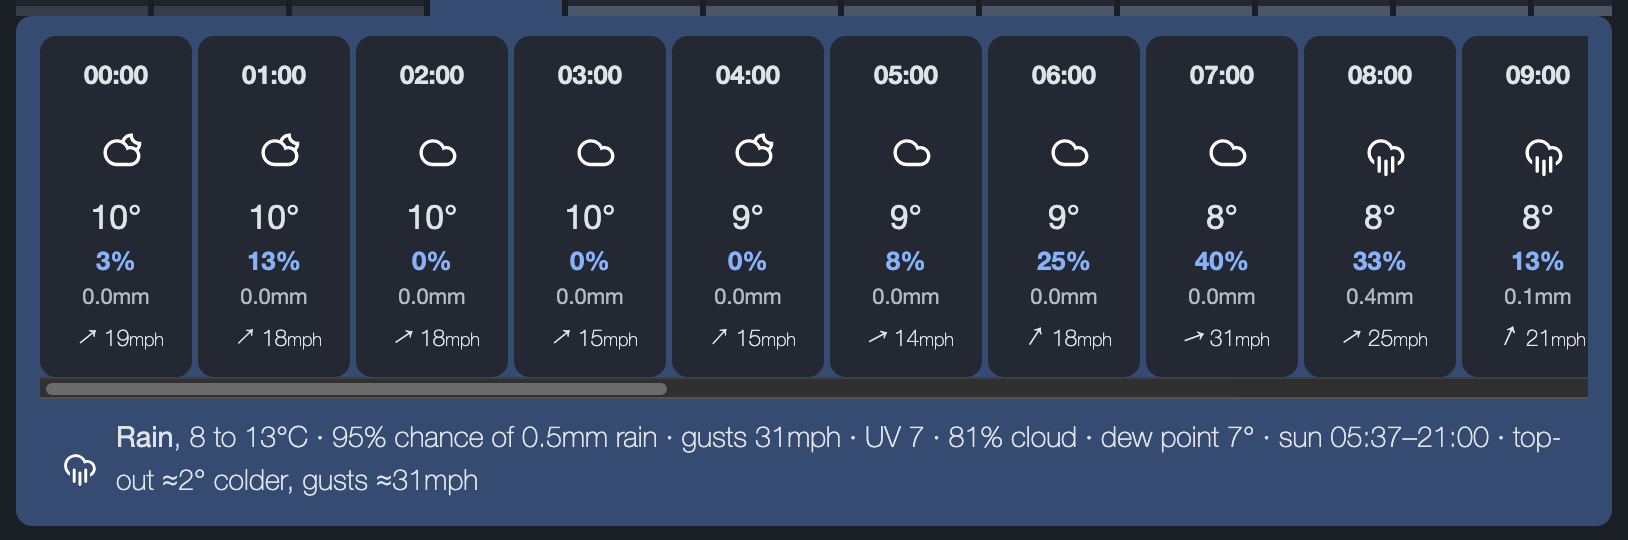
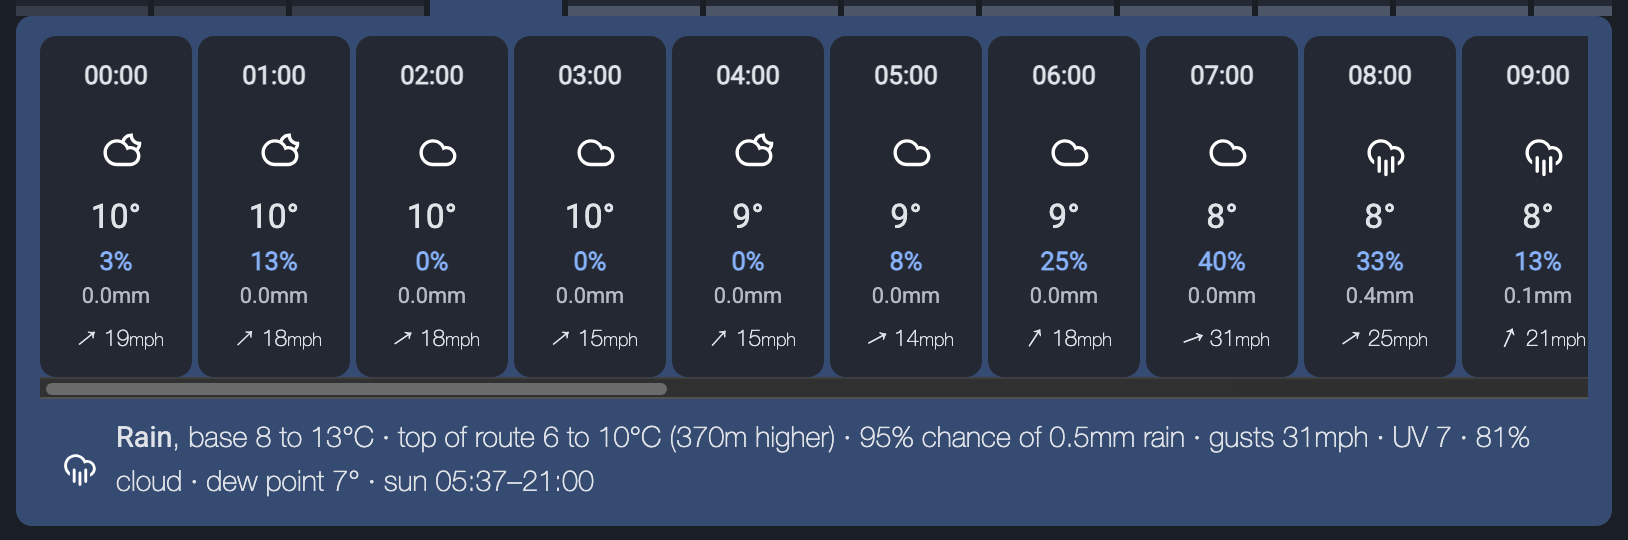
Top-out shows both numbers with a plain explanation
Instead of a cryptic delta phrase, the summary now reads
'base 8 to 13C - top of route 6 to 10C (370m higher)': real model
numbers for qualifying routes, lapse-estimated ones labelled
'(est., Nm higher)' for medium routes, single figure when the route
is too short to matter. Top gust only appears when it differs enough
to change a decision.

diff --git a/website/js/modules/getWeather.js b/website/js/modules/getWeather.js
@@ -143,21 +143,27 @@ function renderDayPanel(climbWeather, dayKey, timeZone, hoursByDate) {
         ? ` &middot; sun ${hourFormatter.format(new Date(day.sunriseTime * 1000))}&ndash;${hourFormatter.format(new Date(day.sunsetTime * 1000))}` : '';
     const lowTide = day.lowTides && day.lowTides.length
         ? ` &middot; low tide ${day.lowTides.map(low => hourFormatter.format(new Date(low.time * 1000))).join(' &amp; ')}` : '';
-    // long routes climb into different weather: model-driven top-out numbers
-    // when the feed carries them, a lapse-rate estimate (~0.65C/100m) otherwise;
-    // hidden when the route is too short for the spread to round to a degree
-    let topOut = '';
+    // Long routes climb into different weather, so show BOTH figures with a
+    // plain explanation: the base numbers and the top-of-route numbers
+    // (model-driven when the feed carries topOut, lapse-rate estimate
+    // otherwise; single figure when the route is too short to matter).
+    const baseGustMph = Math.round(day.windGust * MS_TO_MPH);
+    let tempPart = `${Math.round(day.temperatureMin)} to ${Math.round(day.temperatureHigh)}&#176;C`;
+    let gustPart = `gusts ${baseGustMph}mph`;
+    const routeLength = climbWeather.routeLength;
     if (day.topOut) {
-        const colder = Math.round(day.temperatureHigh - day.topOut.temperatureHigh);
-        if (colder >= 1) topOut = ` &middot; top-out &#8776;${colder}&#176; colder, gusts &#8776;${Math.round(day.topOut.windGust * MS_TO_MPH)}mph`;
-    } else if (climbWeather.routeLength) {
-        const colder = Math.round(climbWeather.routeLength * 0.0065);
-        if (colder >= 1) topOut = ` &middot; top-out &#8776;${colder}&#176; colder (est.)`;
+        tempPart = `base ${tempPart} &middot; top of route ${Math.round(day.topOut.temperatureMin)} to ${Math.round(day.topOut.temperatureHigh)}&#176;C (${routeLength}m higher)`;
+        const topGustMph = Math.round(day.topOut.windGust * MS_TO_MPH);
+        // only mention the top gust when it differs enough to change a decision
+        if (topGustMph - baseGustMph >= 3) gustPart = `gusts ${baseGustMph}mph (${topGustMph} at the top)`;
+    } else if (routeLength && Math.round(routeLength * 0.0065) >= 1) {
+        const drop = routeLength * 0.0065;
+        tempPart = `base ${tempPart} &middot; top of route &#8776;${Math.round(day.temperatureMin - drop)} to ${Math.round(day.temperatureHigh - drop)}&#176;C (est., ${routeLength}m higher)`;
     }
     const summary = `<p class="wx-day-summary"><span class="weather ${day.icon}"></span>
-        <span><strong>${day.icon.replace(/-/g, ' ')}</strong>, ${Math.round(day.temperatureMin)} to ${Math.round(day.temperatureHigh)}&#176;C
-        &middot; ${rainSummary} &middot; gusts ${Math.round(day.windGust * MS_TO_MPH)}mph
-        &middot; UV ${Math.round(day.uvIndex)} &middot; ${Math.round(day.cloudCover)}% cloud${dewPoint}${sun}${lowTide}${topOut}</span></p>`;
+        <span><strong>${day.icon.replace(/-/g, ' ')}</strong>, ${tempPart}
+        &middot; ${rainSummary} &middot; ${gustPart}
+        &middot; UV ${Math.round(day.uvIndex)} &middot; ${Math.round(day.cloudCover)}% cloud${dewPoint}${sun}${lowTide}</span></p>`;
 
     const hours = hoursByDate[localDateKey(day.time, timeZone)] || [];
     // no heading: the day and hour cells share one visual language, so the

diff --git a/cypress/e2e/weather.cy.js b/cypress/e2e/weather.cy.js
@@ -181,9 +181,11 @@ describe('Weather forecast strip', function () {
                 onBeforeLoad(win) { win.localStorage.setItem('climb42', JSON.stringify(climbFile)); }
             });
         });
-        cy.get('#weatherHourly .wx-day-summary').should('contain', 'top-out ≈')
-            .and('contain', 'colder');
-        cy.get('#weatherHourly .wx-day-summary').invoke('text').should('match', /gusts ≈\d+mph/);
+        cy.get('#weatherHourly .wx-day-summary').should('contain', 'base ')
+            .and('contain', 'top of route')
+            .and('contain', '(370m higher)');
+        cy.get('#weatherHourly .wx-day-summary').invoke('text')
+            .should('match', /top of route -?\d+ to -?\d+°C/); // real model numbers, not a delta
 
         // estimate fallback: no topOut in the feed but a route long enough to matter
         stubWeatherFeed((weather) => {
@@ -195,7 +197,7 @@ describe('Weather forecast strip', function () {
                 onBeforeLoad(win) { win.localStorage.setItem('climb1', JSON.stringify(climbFile)); }
             });
         });
-        cy.get('#weatherHourly .wx-day-summary').should('contain', '(est.)');
+        cy.get('#weatherHourly .wx-day-summary').should('contain', 'top of route ≈').and('contain', '(est., 200m higher)');
     });
 
     it('stays hidden when the feed is stale', () => {